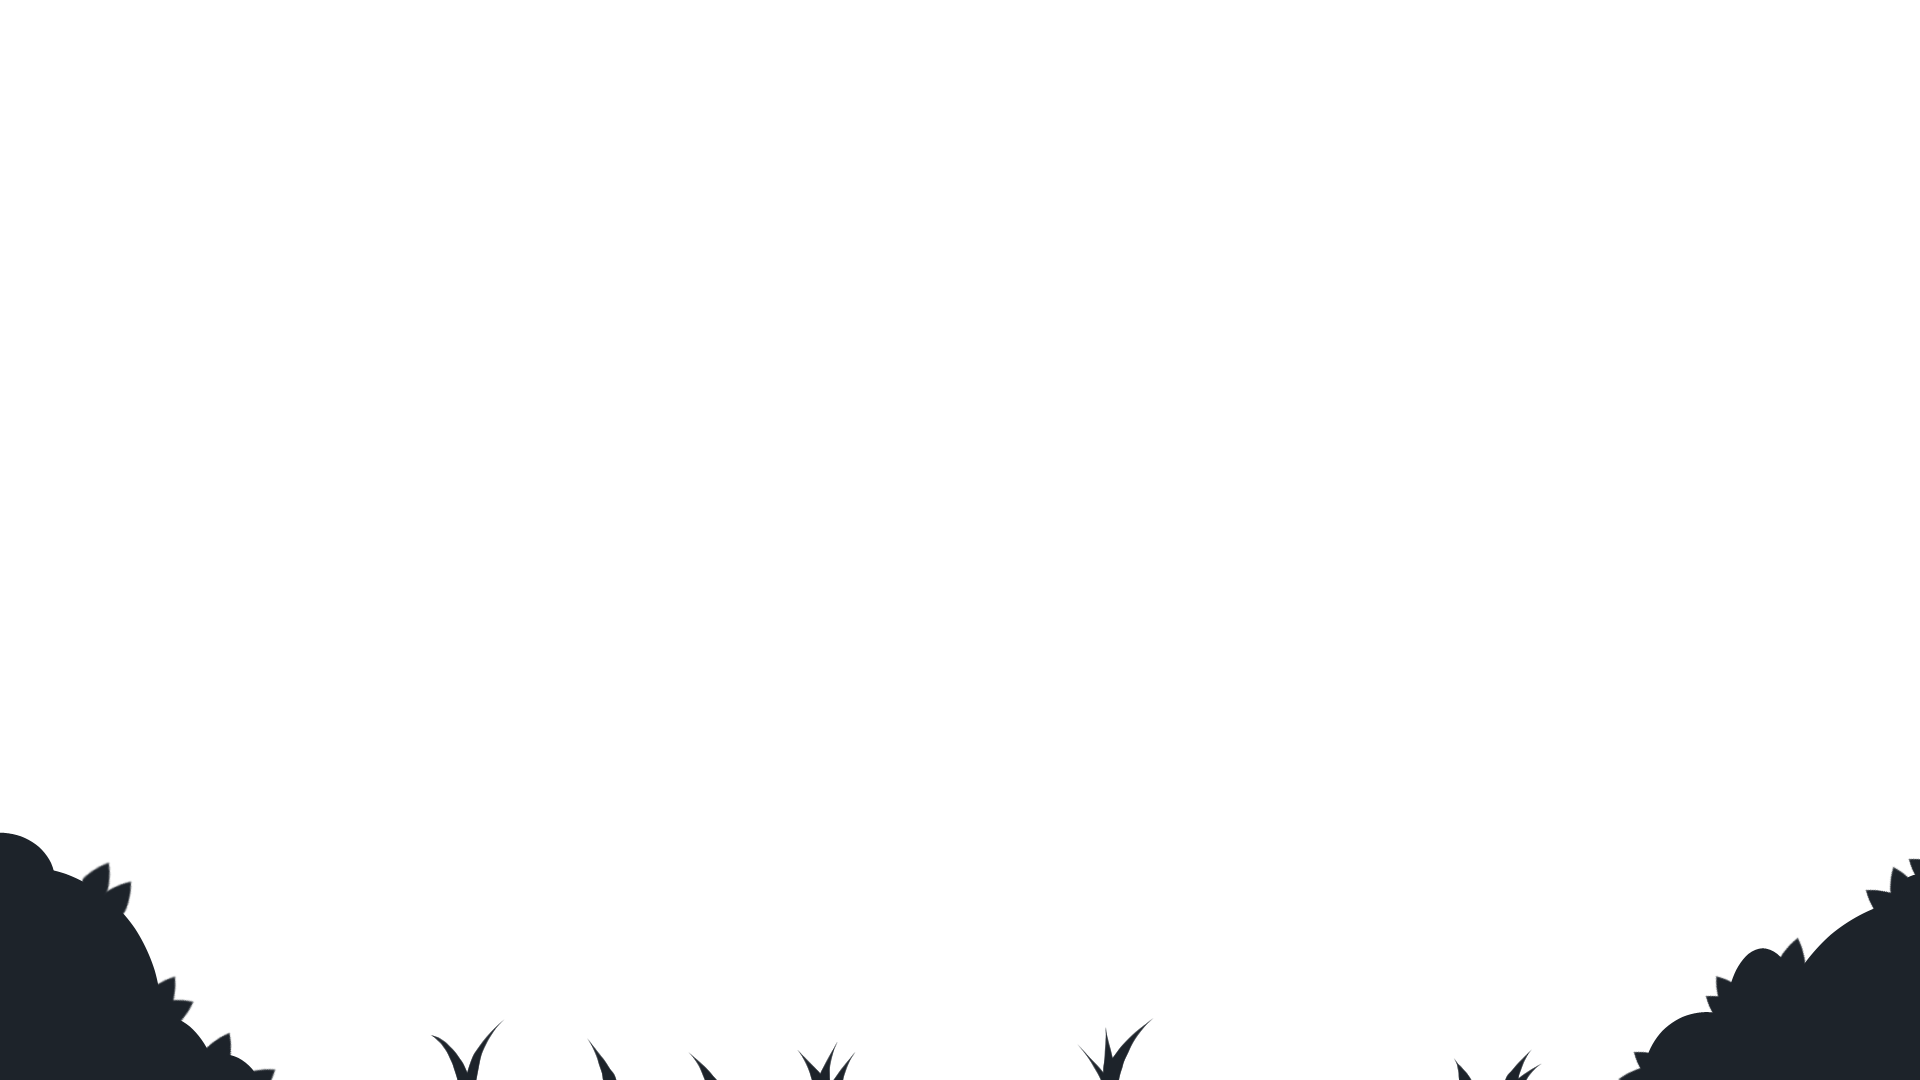
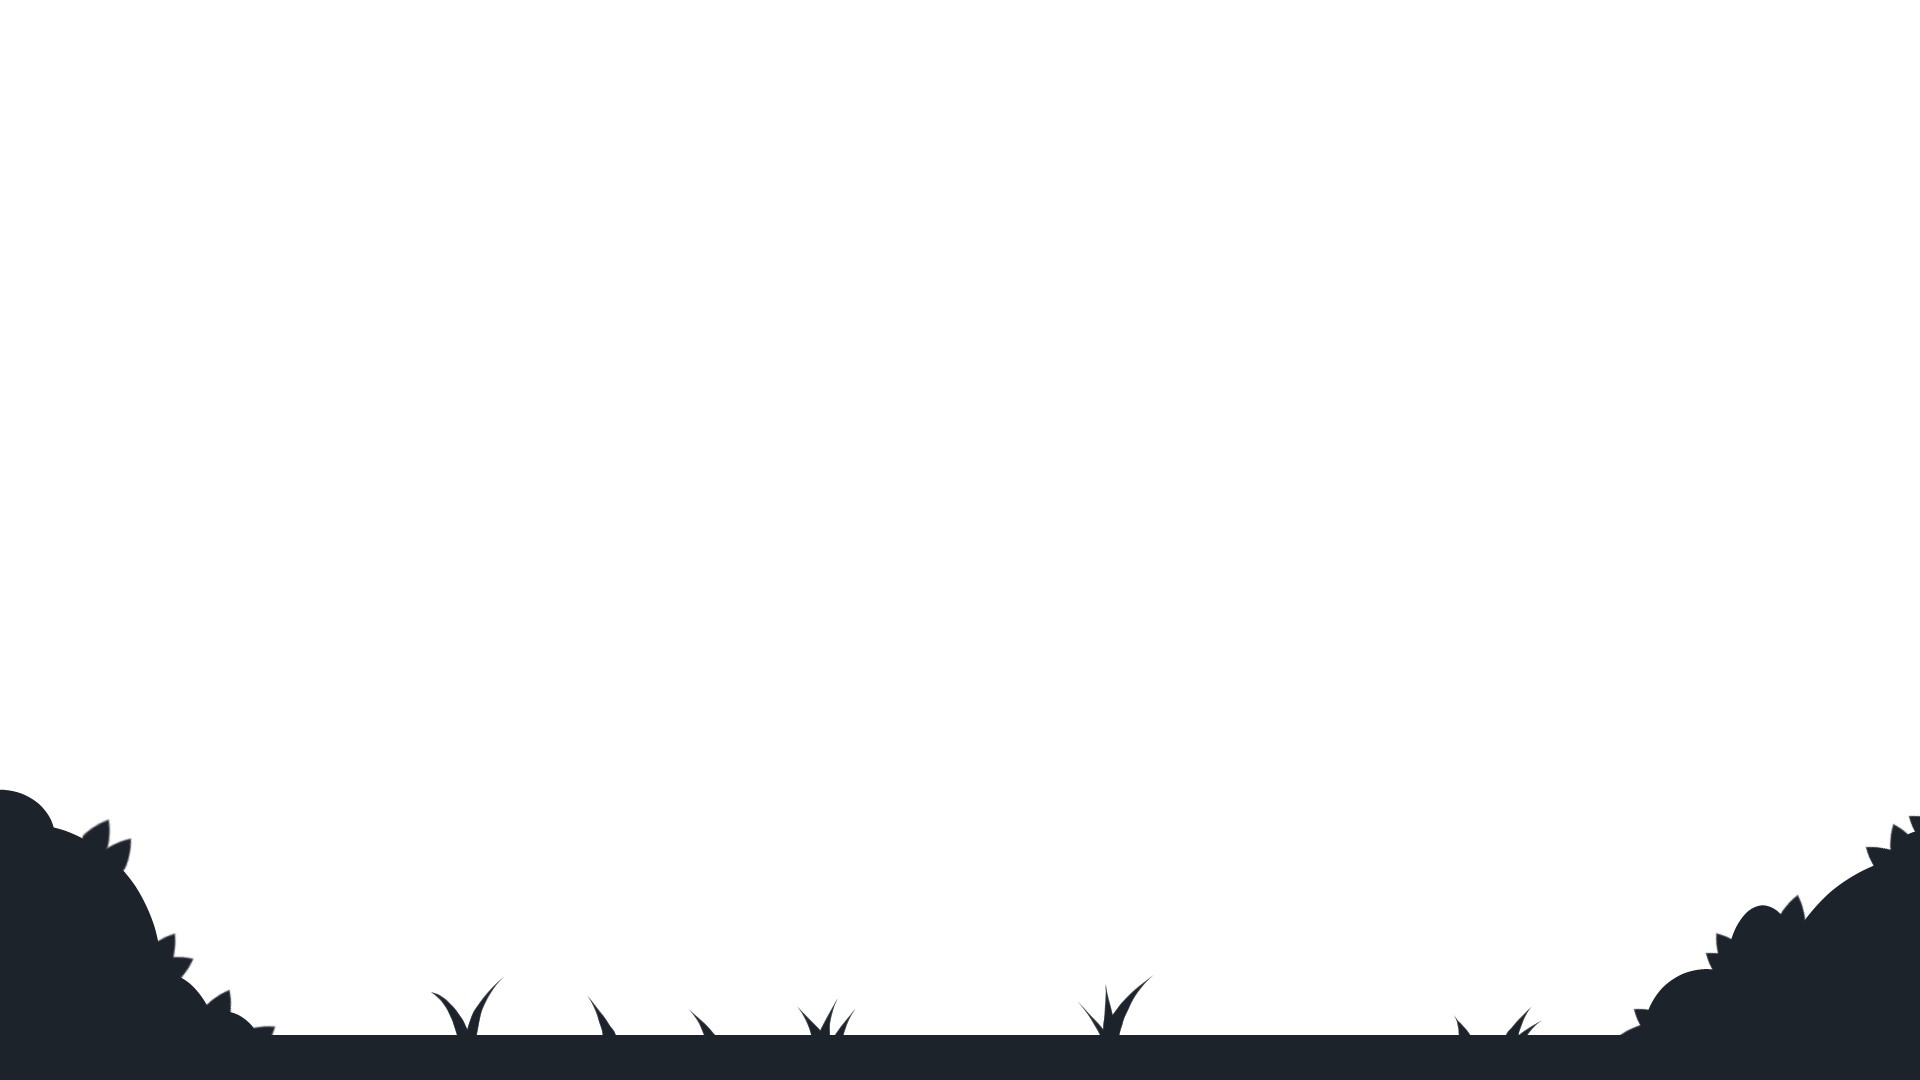
Update styling of navbar and parallax title section

Changed region(s): [[0.0, 0.7333, 1.0, 1.0]]

diff --git a/src/routes/+page.svelte b/src/routes/+page.svelte
@@ -5,18 +5,20 @@
 <html lang=en>
   <title>BINI Data Science Portfolio</title>
   <!-- ~ ~ ~ ~ ~ ~ ~ ~ ~ ~ ~ ~ ~ NAVIGATION BAR  ~ ~ ~ ~ ~ ~ ~ ~ ~ ~ ~ ~ ~ -->
-	<div class="navbar bg-base-100 z-50 fixed top-0 w-full flex items-center justify-between px-5 py-3">
-    <div class="text-xl">BINI</div>
-    <ul class="flex space-x-5">
-        <li class="btn px-3">Overview</li>
-        <li class="btn px-3">Data</li>
-        <li class="btn px-3">Exploration</li>
-        <li class="btn px-3">Modelling</li>
-        <li class="btn px-3">Results</li>
-        <li class="btn px-3">Conclusion</li>
-    </ul>
+  <div class="navbar bg-base-100 z-50 fixed top-0 w-full px-5 py-3">
+    <div class="max-w-screen-lg mx-auto flex items-center justify-between">
+        <div class="text-3xl font-bold pr-8">BINI</div>
+        <ul class="flex space-x-3">
+            <li class="btn px-2">Overview</li>
+            <li class="btn px-2">Data</li>
+            <li class="btn px-2">Exploration</li>
+            <li class="btn px-2">Modelling</li>
+            <li class="btn px-2">Results</li>
+            <li class="btn px-2">Conclusion</li>
+        </ul>
+    </div>
 </div>
-  <!-- ~ ~ ~ ~ ~ ~ ~ ~ ~ ~ ~ ~ ~ PARALLAX LANDING SECTION ~ ~ ~ ~ ~ ~ ~ ~ ~ ~ ~ ~ ~ -->
+  <!-- ~ ~ ~ ~ ~ ~ ~ ~ ~ ~ ~ ~ ~ PARALLAX COVER SECTION ~ ~ ~ ~ ~ ~ ~ ~ ~ ~ ~ ~ ~ -->
   <Parallax />
   <!-- ~ ~ ~ ~ ~ ~ ~ ~ ~ ~ ~ ~ ~ BACKGROUND / OVERVIEW SECTION ~ ~ ~ ~ ~ ~ ~ ~ ~ ~ ~ ~ ~ -->
   <div class="flex flex-col items-center justify-center h-3/4 w-3/4 mx-auto mt-6">

diff --git a/src/lib/Parallax/Parallax.svelte b/src/lib/Parallax/Parallax.svelte
@@ -30,7 +30,7 @@
 
 <html lang='en'>
     <div class='parallax'>
-        <div class="bg">
+        <div class="bg mt-5">
             <img src={bg} alt="background1" width="100%" height="auto">
         </div>
         <div class="bg2">
@@ -74,7 +74,7 @@
     .parallax img {
         height: 100%;
         width: 100%;
-        object-fit: cover;
+        object-fit: contain;
         z-index: -1;
     }
 </style>
